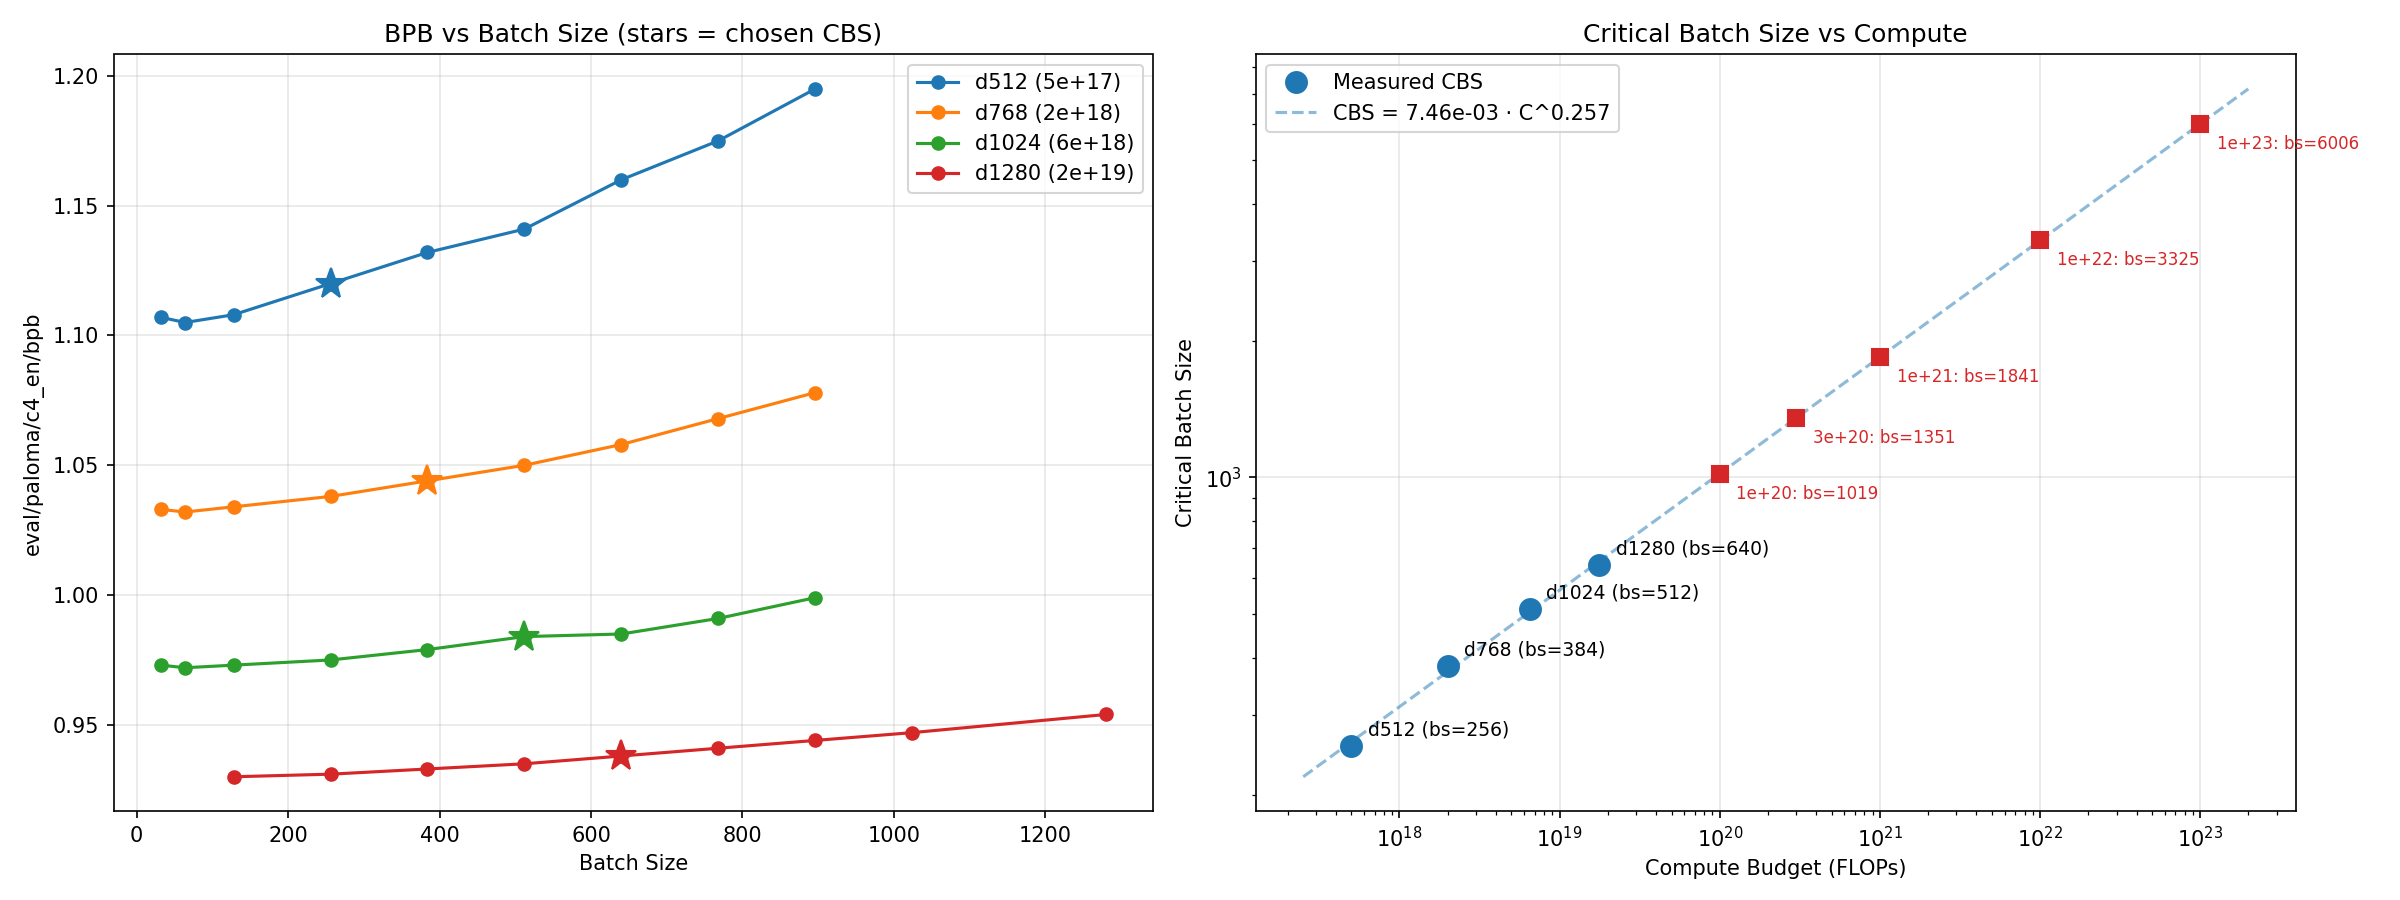
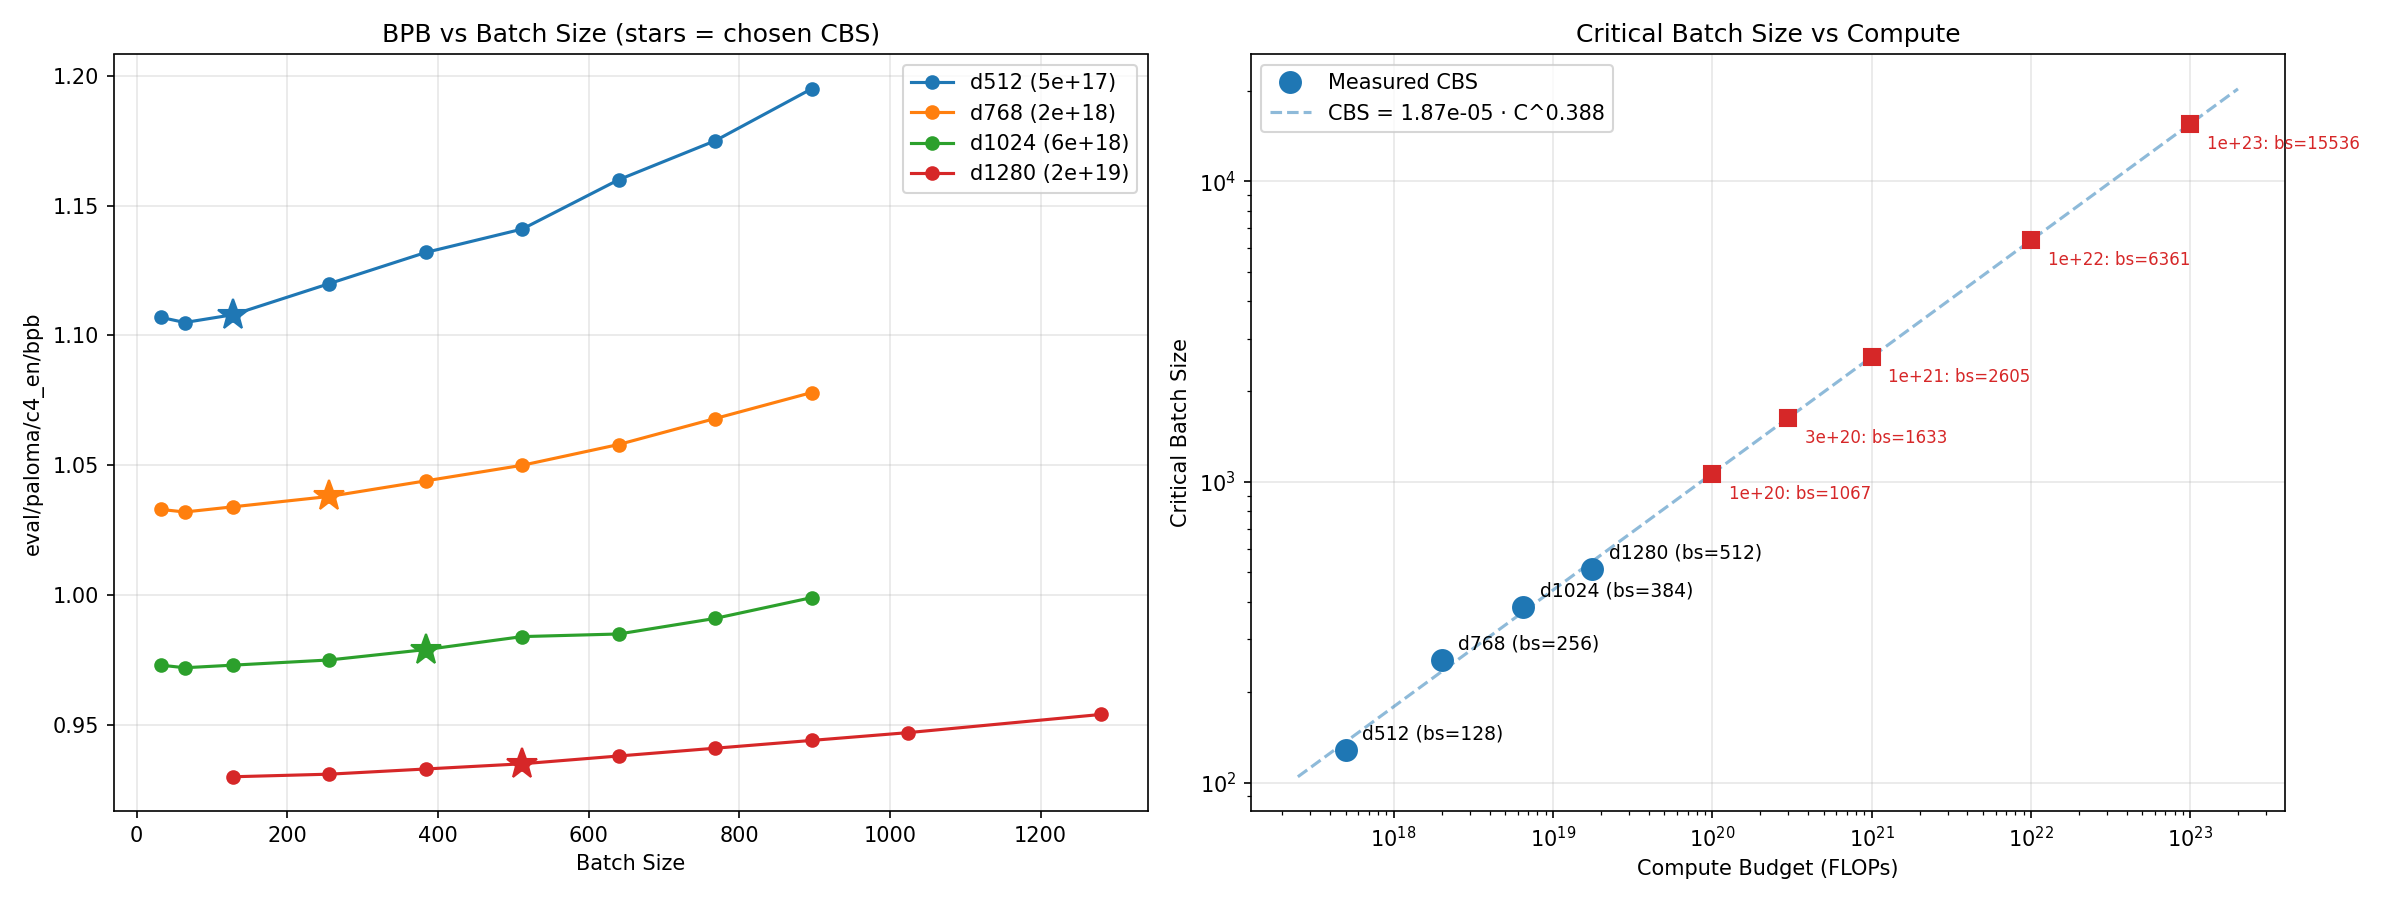
Update CBS analysis: shift chosen CBS down by 128

diff --git a/experiments/grug/moe_apr2/new_plots/cbs_analysis.py b/experiments/grug/moe_apr2/new_plots/cbs_analysis.py
@@ -38,7 +38,7 @@ CBS_DATA = {
 }
 
 # Chosen CBS points per dim
-CBS_CHOSEN = {"d512": 256, "d768": 384, "d1024": 512, "d1280": 640}
+CBS_CHOSEN = {"d512": 128, "d768": 256, "d1024": 384, "d1280": 512}
 
 
 def main():
